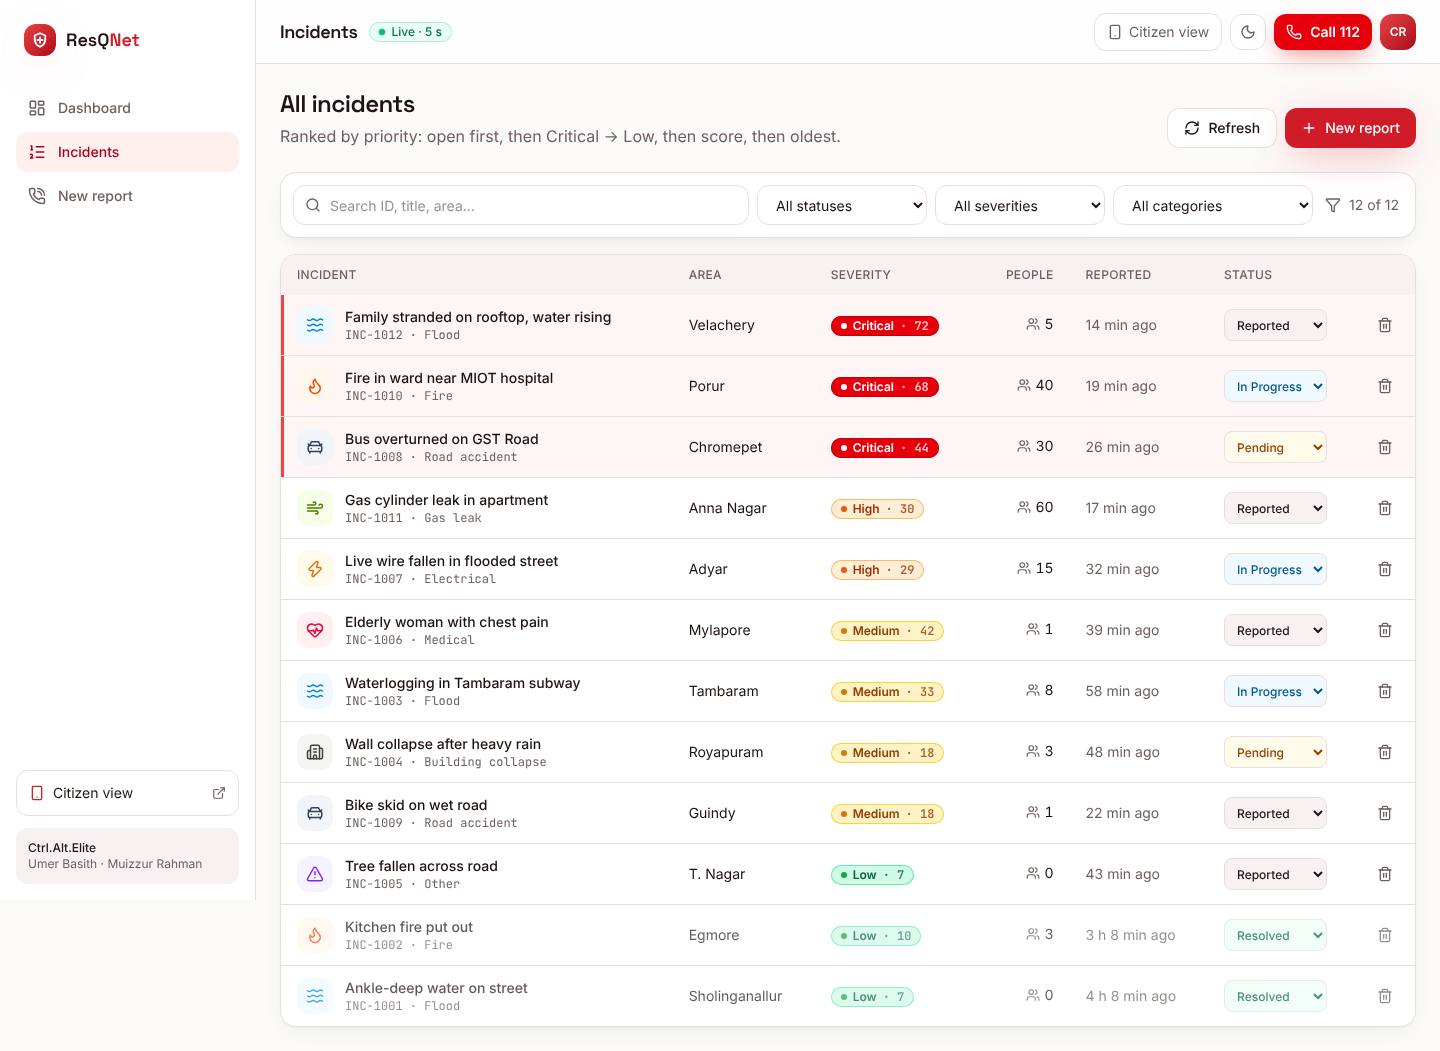
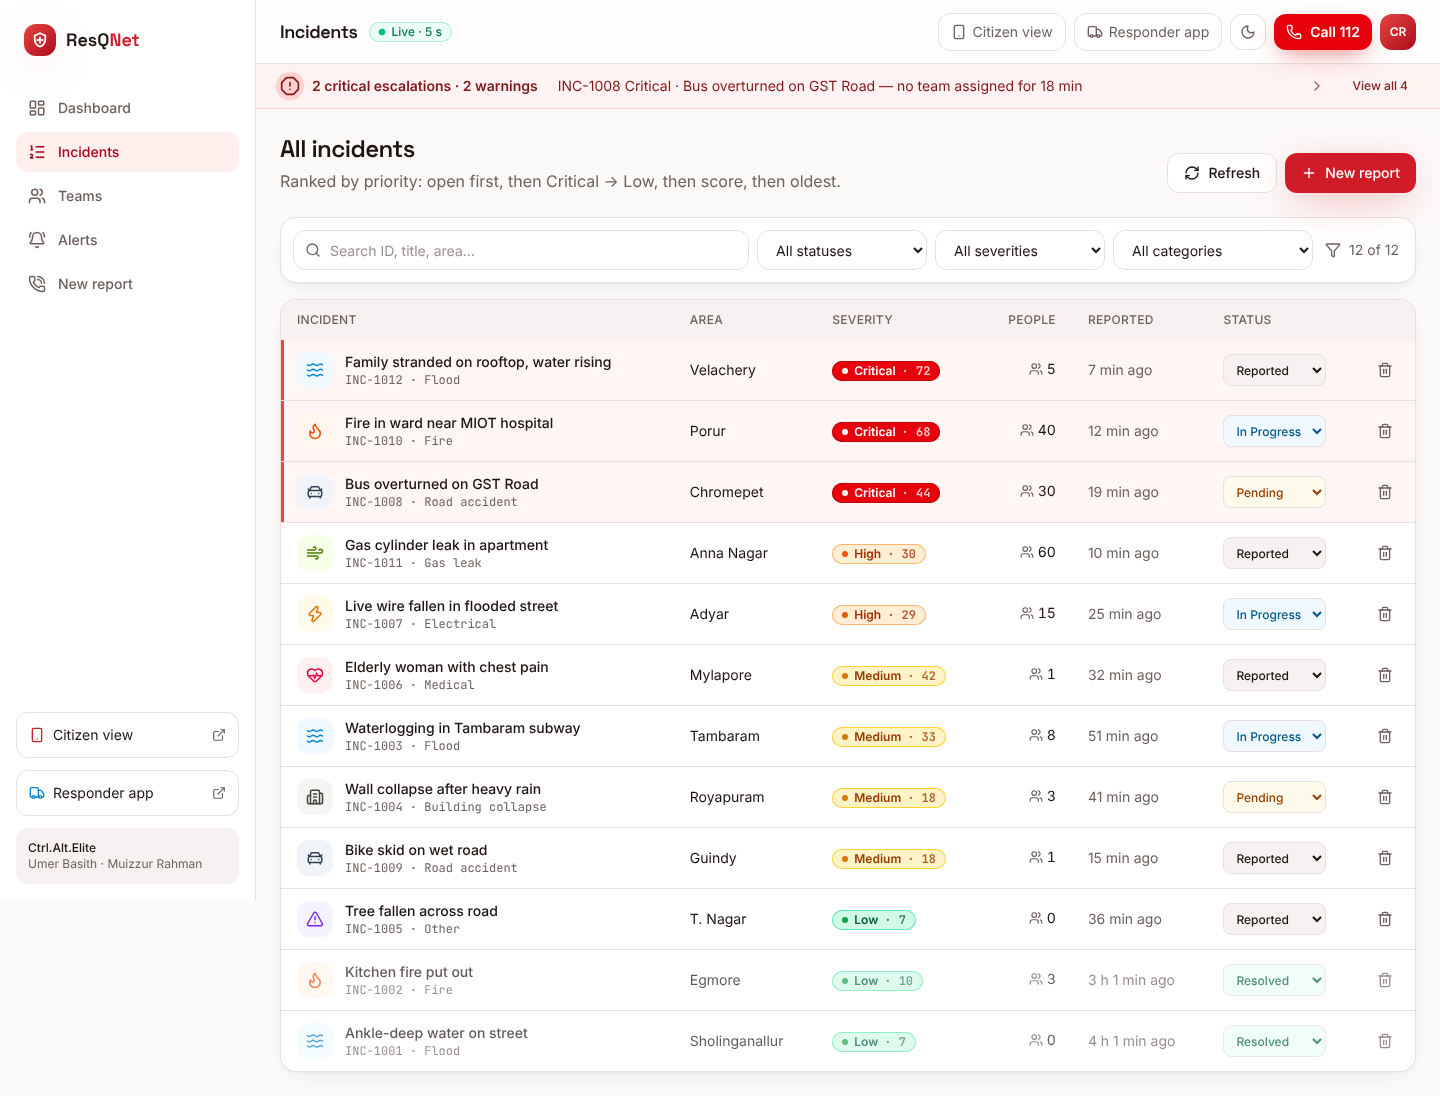
Round 2 complete: dispatch, responder app, escalations, teams, alerts, duplicates; fix response model for short descriptions; second rescue boat; demo script
Claude-Session: https://claude.ai/code/session_01TpzK2desoqjHtm917eHY2r

diff --git a/round1/frontend/src/lib/mock.ts b/round1/frontend/src/lib/mock.ts
@@ -217,9 +217,10 @@ export const mockTeams: Team[] = [
   T("BLS-ADY", "ambulance_bls", "BLS ambulance", "BLS Ambulance · Adyar", "Adyar"),
   T("BLS-ANN", "ambulance_bls", "BLS ambulance", "BLS Ambulance · Anna Nagar", "Anna Nagar"),
   T("POL-MYL", "police", "Police", "Police Patrol · Mylapore", "Mylapore"),
-  T("POL-TBM", "police", "Police", "Police Patrol · Tambaram", "Tambaram"),
+  T("POL-TBM", "police", "Police", "Police Patrol · Tambaram", "Tambaram", "busy", "INC-1003"),
   T("NDRF-VDL", "ndrf", "NDRF rescue", "NDRF Team · Vandalur", "Vandalur"),
-  T("BOAT-ADY", "boat", "Rescue boat", "Rescue Boat · Adyar", "Adyar", "busy", "INC-1006"),
+  T("BOAT-ADY", "boat", "Rescue boat", "Rescue Boat · Adyar", "Adyar"),
+  T("BOAT-VLC", "boat", "Rescue boat", "Rescue Boat · Velachery", "Velachery"),
 ];
 
 const km = (a: { lat: number; lng: number }, b: { lat: number; lng: number }) => {

diff --git a/round1/backend/app/main.py b/round1/backend/app/main.py
@@ -91,11 +91,14 @@ def reset_data() -> int:
         full = {**DEFAULTS, **report}
         inc = db.insert(lambda seq, r=full, s=status, m=minutes: build_incident(seq, r, s, m))
         if status == "In Progress":  # give in-progress incidents a team that is on the way / on scene
-            teams = list(teams_by_id().values())
-            for slot in suggest(inc, teams)[:1]:
-                if slot["best"]:
-                    a = new_assignment(inc, teams_by_id()[slot["best"]], "on_scene" if minutes > 20 else "en_route",
-                                       now_iso(max(0, minutes - 3)))
+            tmap = teams_by_id()
+            # keep the boats free for the demo: waterlogging gets the local police patrol instead
+            pick = next((s["best"] for s in suggest(inc, list(tmap.values()))
+                         if s["best"] and tmap[s["best"]]["type"] != "boat"), None)
+            if not pick:
+                pick = min((t for t in tmap.values() if t["type"] == "police" and t["status"] == "available"),
+                           key=lambda t: eta(t, inc["lat"], inc["lng"])[1])["id"]
+            new_assignment(inc, tmap[pick], "on_scene" if minutes > 20 else "en_route", now_iso(max(0, minutes - 3)))
             db.save(inc)
     put_alert({"area": "Velachery", "message": "Heavy flooding near Velachery lake. Move to upper floors, avoid 100 Feet Road.",
                "level": "danger", "hours": 6})

diff --git a/round1/backend/tests/test_api.py b/round1/backend/tests/test_api.py
@@ -121,7 +121,7 @@ def test_reset(client):
 # ---------- Round 2: dispatch, responder, duplicates, escalation, alerts ----------
 def test_teams_seeded_and_some_busy(client):
     teams = client.get("/api/teams").json()
-    assert len(teams) == 12 and any(t["status"] == "busy" for t in teams)
+    assert len(teams) == 13 and any(t["status"] == "busy" for t in teams)
 
 
 def test_suggest_assign_reject_accept_complete(client):
@@ -167,5 +167,9 @@ def test_alerts_simulate_escalations(client):
     n = client.get("/api/stats").json()["total"]
     sim = client.post("/api/simulate", json={"scenario": "chennai_flood"}).json()
     assert client.get("/api/stats").json()["total"] == n + len(sim["created"])
+    listed = client.get("/api/incidents")
+    assert listed.status_code == 200 and len(listed.json()) == n + len(sim["created"])
+    for i in sim["created"]:
+        assert client.get(f"/api/incidents/{i}").status_code == 200
     esc = client.get("/api/escalations").json()
     assert any(e["level"] == "critical" for e in esc)

diff --git a/round1/backend/app/dispatch.py b/round1/backend/app/dispatch.py
@@ -19,6 +19,7 @@ TEAMS_SEED = [
     ("POL-TBM", "Police Patrol · Tambaram", "police", "Tambaram"),
     ("NDRF-VDL", "NDRF Team · Vandalur", "ndrf", "Vandalur"),
     ("BOAT-ADY", "Rescue Boat · Adyar", "boat", "Adyar"),
+    ("BOAT-VLC", "Rescue Boat · Velachery", "boat", "Velachery"),
 ]
 
 TEAM_TYPE_LABELS = {"fire": "Fire engine", "ambulance_als": "ALS ambulance", "ambulance_bls": "BLS ambulance",

diff --git a/round1/backend/app/schemas.py b/round1/backend/app/schemas.py
@@ -91,7 +91,7 @@ class Assignment(BaseModel):
     updated_at: str
 
 
-class Incident(ReportIn, SeverityOut):
+class Incident(PreviewIn, SeverityOut):
     id: str
     status: Status
     duplicate_of: str | None = None

diff --git a/round1/deliver/DEMO_SCRIPT.md b/round1/deliver/DEMO_SCRIPT.md
@@ -18,10 +18,10 @@
 | 1:55 | "Every incident shows its score, reasons, and full details." | Click the new incident |
 | 2:10 | "Admin moves it: Pending → In Progress → Resolved. Every change is in the timeline with time and note." | Click the status buttons |
 | 2:30 | "Duplicate or test reports? Mark as duplicate, or delete with confirmation." | Incidents list → mark one as duplicate / delete a test |
-| 2:45 | "Rules decide severity, humans manage, every incident is tracked to resolution. 20 automated tests check every rule. Next round: dispatching the right teams." | Back to dashboard |
+| 2:45 | "Rules decide severity, humans manage, every incident is tracked to resolution. 24 automated tests check every rule. Next round: dispatching the right teams." | Back to dashboard |
 
 ## Numbers you can say (all real)
-- **20 automated tests pass** (every severity rule + API: create, status, duplicate, delete, validation).
+- **24 automated tests pass** (every severity rule + API: create, status, duplicate, delete, validation, dispatch, responder, alerts, simulate).
 - **4 severity levels, 8 categories, 4 statuses** — exactly the brief, plus Gas Leak & Electrical Hazard.
 - Score 0–100 from 5 factors: Life threat (35) · Hazard (25) · Exposure (20) · Vulnerable people (10) · Time-critical (6). Highest possible: 96.
 
@@ -36,3 +36,36 @@
 | How does it scale? | Production design: PostgreSQL + PostGIS, a queue for spikes, CDN for the citizen page. Today: FastAPI + SQLite on one laptop. |
 | What's next? | Round 2: right-team dispatch, responder app, duplicate linking, escalation alarms, alerts to citizens. |
 | Privacy? | Contact info is optional and only visible to the control room. |
+
+---
+
+# Round 2 demo add-on (same app — extra 2 minutes)
+
+Extra windows: **C** = http://localhost:5173/responder?team=ALS-VLC (phone size).
+Before: click **Reset** on the dashboard.
+
+| Time | Say | Click |
+|---|---|---|
+| 0:00 | "Round 1 told us *what* is urgent. Round 2 sends the *right* team." | `/app/incidents/INC-1012` (rooftop family, Velachery) |
+| 0:15 | "For a rooftop flood it needs a rescue boat and an ambulance — matched by skill first, then arrival time. Boat 3 minutes, ALS ambulance 3 minutes." | **Dispatch** card → **Assign all suggested** |
+| 0:35 | "The ambulance crew gets it on their phone with the reasons." | Window C: **Accept** → **En route** → **On scene** |
+| 0:55 | "If a team can't go, they reject with a reason and the next best team is suggested." | (optional) assign a second team, **Reject** → "No equipment" → back on detail, next suggestion shows |
+| 1:10 | "Now the flood gets worse." | Dashboard → **Simulate flood** |
+| 1:20 | "8 new reports. The red escalation banner fires: critical incidents with no team for over 2 minutes." | Point at escalation banner |
+| 1:30 | "Three people reported the same rooftop. We link them — 3 reports, more confidence, the score goes up." | INC-1012 → **Possible duplicates** → **Link as duplicate** |
+| 1:45 | "Warn the public: alert to Velachery. Every citizen opening the report page sees it." | `/app/alerts` → area Velachery → Publish → window B `/report` shows banner |
+| 2:00 | "Responder finishes with a note, admin resolves. Every step is in the timeline." | C: **Completed** + note → detail: **Resolve** → timeline |
+
+## Round 2 numbers (real)
+- 13 response teams (fire ×4, ALS ×2, BLS ×2, police ×2, NDRF ×1, boat ×2) across Chennai.
+- ETA = 2 min mobilisation + distance ÷ speed (road 25 km/h, boat 20 km/h). Straight-line distance — say "estimated".
+- Escalation: Critical with no team > 2 min, High > 5 min, team not accepting > 1 min, any team type fully busy.
+- Duplicate = related type + within 500 m + within 60 min. Each linked report +3 points; 3+ reports → one level up (R8).
+
+## Round 2 judge questions
+| Question | Answer |
+|---|---|
+| Why not just the nearest team? | Skill first (boat for flood, NDRF for collapse), then arrival time. The nearest fire engine is useless for a rooftop flood. |
+| What if nobody is free? | Escalation banner + "resource shortage" warning; admin sees other candidates further away. |
+| Can the system assign by itself? | It suggests; a human approves with one click. Rules decide priority, humans decide action. |
+| Live tracking? | Today status updates (en route / on scene). Production: GPS from the responder phone + WebSockets. |
